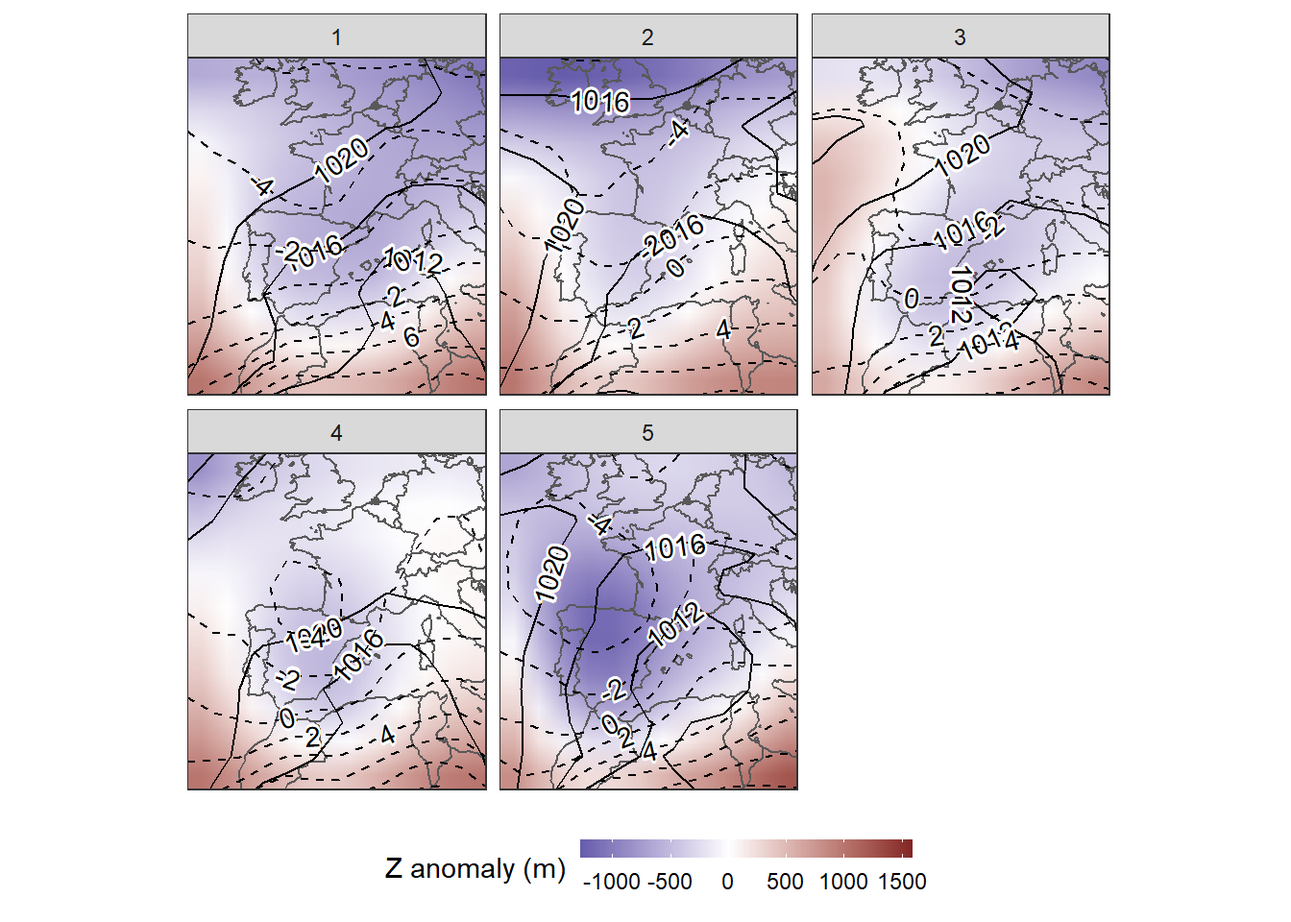
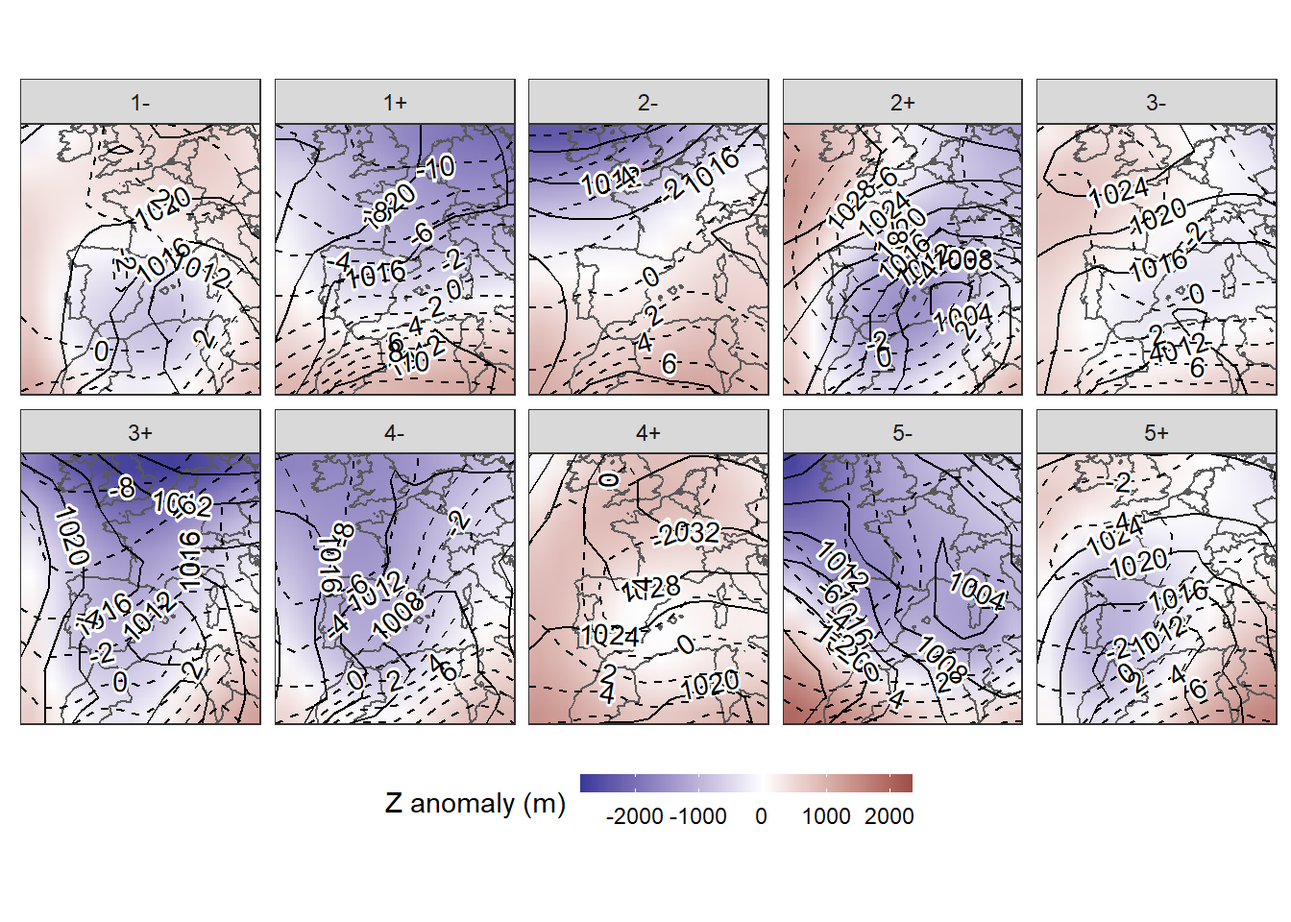
update

diff --git a/synoptreg/articles/environment-to-circulation.html b/synoptreg/articles/environment-to-circulation.html
@@ -31,7 +31,7 @@
       </button>
       <span class="navbar-brand">
         <a class="navbar-link" href="../index.html">synoptReg</a>
-        <span class="version label label-default" data-toggle="tooltip" data-placement="bottom" title="Released version">1.0.1</span>
+        <span class="version label label-default" data-toggle="tooltip" data-placement="bottom" title="Released version">1.0.2</span>
       </span>
     </div>
 
@@ -84,7 +84,7 @@
       <h1>Environment-To-Circulation</h1>
                         <h4 class="author">Marc Lemus-Canovas</h4>
             
-            <h4 class="date">2020-08-24</h4>
+            <h4 class="date">2020-08-25</h4>
       
       
       <div class="hidden name"><code>environment-to-circulation.Rmd</code></div>
@@ -253,7 +253,7 @@
 <a class="sourceLine" id="cb5-63" title="63"><span class="co">#&gt;  9 slp     5      55 2000-09-04 1+          101913.             277.</span></a>
 <a class="sourceLine" id="cb5-64" title="64"><span class="co">#&gt; 10 slp     7.5    55 2000-09-04 1+          101781.             145.</span></a>
 <a class="sourceLine" id="cb5-65" title="65"><span class="co">#&gt; # ... with 4,280 more rows, and 1 more variable: cv_WT_value &lt;dbl&gt;</span></a></code></pre></div>
-<p>The object returned by <code>synoptclas</code> differs relatively from the object returned when we apply a classification in <code>"S-mode"</code>. This time, the output is a list with 4 objects: 2 objects are <code>tibbles</code> with the variables <code>time</code> and <code>WT</code>. The difference between the two objects lies in the grouping method applied to get the WTs. In <code>clas_abs</code> the association is done with the absolute values of the loadings; in <code>clas_pn</code> the extreme positive and negative values are used to get the final groups. The two remaining objects are the grids classified with each of these two methods. This time we will work with the method that classifies the WTs using the absolute loadings (correlation coefficients).</p>
+<p>The object returned by <code>synoptclas</code> differs relatively from the object returned when we apply a classification in <code>"S-mode"</code>. This time, the output is a list with 4 objects: 2 objects are <code>tibbles</code> with the variables <code>time</code> and <code>WT</code>. The difference between the two objects lies in the grouping method applied to achieve the WTs. In <code>clas_abs</code> the association is done with the absolute values of the loadings; in <code>clas_pn</code> the extreme positive and negative values are used to get the final groups. The two remaining objects are the grids classified with each of these two methods. This time we will work with the method that classifies the WTs using the positive/negative loadings (correlation coefficients).</p>
 <p>Let’s see the result:</p>
 <div class="sourceCode" id="cb6"><pre class="sourceCode r"><code class="sourceCode r"><a class="sourceLine" id="cb6-1" title="1"><span class="kw"><a href="https://rdrr.io/r/base/library.html">library</a></span>(ggplot2) </a>
 <a class="sourceLine" id="cb6-2" title="2"><span class="kw"><a href="https://rdrr.io/r/base/library.html">library</a></span>(dplyr)</a>
@@ -264,24 +264,24 @@
 <a class="sourceLine" id="cb6-7" title="7">                                       <span class="dt">returnclass =</span> <span class="st">"sf"</span>,<span class="dt">scale =</span> <span class="dv">50</span>)</a>
 <a class="sourceLine" id="cb6-8" title="8"></a>
 <a class="sourceLine" id="cb6-9" title="9"><span class="kw">ggplot</span>()<span class="op">+</span></a>
-<a class="sourceLine" id="cb6-10" title="10"><span class="st">    </span><span class="kw">geom_raster</span>(<span class="kw"><a href="https://rdrr.io/r/stats/filter.html">filter</a></span>(cl<span class="op">$</span>grid_clas_abs, var <span class="op">==</span><span class="st"> "z500"</span>), </a>
+<a class="sourceLine" id="cb6-10" title="10"><span class="st">    </span><span class="kw">geom_raster</span>(<span class="kw"><a href="https://rdrr.io/r/stats/filter.html">filter</a></span>(cl<span class="op">$</span>grid_clas_pn, var <span class="op">==</span><span class="st"> "z500"</span>), </a>
 <a class="sourceLine" id="cb6-11" title="11">              <span class="dt">mapping =</span> <span class="kw">aes</span>(lon,lat,<span class="dt">fill =</span> mean_WT_anom_value),</a>
 <a class="sourceLine" id="cb6-12" title="12">              <span class="dt">interpolate =</span> T,<span class="dt">hjust =</span> <span class="dv">0</span>,<span class="dt">vjust =</span> <span class="dv">0</span>)<span class="op">+</span></a>
 <a class="sourceLine" id="cb6-13" title="13"><span class="st">    </span><span class="kw">geom_sf</span>(<span class="dt">data =</span> borders, <span class="dt">fill =</span> <span class="st">"transparent"</span>)<span class="op">+</span></a>
-<a class="sourceLine" id="cb6-14" title="14"><span class="st">  </span><span class="kw">geom_contour2</span>(<span class="dt">data =</span> <span class="kw"><a href="https://rdrr.io/r/stats/filter.html">filter</a></span>(cl<span class="op">$</span>grid_clas_abs,var <span class="op">==</span><span class="st"> "slp"</span>),</a>
+<a class="sourceLine" id="cb6-14" title="14"><span class="st">  </span><span class="kw">geom_contour2</span>(<span class="dt">data =</span> <span class="kw"><a href="https://rdrr.io/r/stats/filter.html">filter</a></span>(cl<span class="op">$</span>grid_clas_pn,var <span class="op">==</span><span class="st"> "slp"</span>),</a>
 <a class="sourceLine" id="cb6-15" title="15">                <span class="kw">aes</span>(<span class="dt">x=</span>lon,<span class="dt">y=</span>lat,<span class="dt">z=</span>mean_WT_value<span class="op">/</span><span class="dv">100</span>), </a>
 <a class="sourceLine" id="cb6-16" title="16">                <span class="dt">binwidth =</span> <span class="dv">4</span>, <span class="dt">color =</span> <span class="st">"black"</span>) <span class="op">+</span></a>
-<a class="sourceLine" id="cb6-17" title="17"><span class="st">  </span><span class="kw">geom_text_contour</span>(<span class="dt">data=</span> <span class="kw"><a href="https://rdrr.io/r/stats/filter.html">filter</a></span>(cl<span class="op">$</span>grid_clas_abs, var <span class="op">==</span><span class="st"> "slp"</span>),</a>
+<a class="sourceLine" id="cb6-17" title="17"><span class="st">  </span><span class="kw">geom_text_contour</span>(<span class="dt">data=</span> <span class="kw"><a href="https://rdrr.io/r/stats/filter.html">filter</a></span>(cl<span class="op">$</span>grid_clas_pn, var <span class="op">==</span><span class="st"> "slp"</span>),</a>
 <a class="sourceLine" id="cb6-18" title="18">                    <span class="kw">aes</span>(<span class="dt">x=</span>lon,<span class="dt">y=</span>lat,<span class="dt">z=</span>mean_WT_value<span class="op">/</span><span class="dv">100</span>), </a>
 <a class="sourceLine" id="cb6-19" title="19">                    <span class="dt">stroke =</span> <span class="fl">0.15</span>,<span class="dt">binwidth =</span> <span class="dv">4</span>) <span class="op">+</span></a>
-<a class="sourceLine" id="cb6-20" title="20"><span class="st">  </span><span class="kw">geom_contour2</span>(<span class="dt">data =</span> <span class="kw"><a href="https://rdrr.io/r/stats/filter.html">filter</a></span>(cl<span class="op">$</span>grid_clas_abs,var <span class="op">==</span><span class="st"> "t850"</span>), </a>
+<a class="sourceLine" id="cb6-20" title="20"><span class="st">  </span><span class="kw">geom_contour2</span>(<span class="dt">data =</span> <span class="kw"><a href="https://rdrr.io/r/stats/filter.html">filter</a></span>(cl<span class="op">$</span>grid_clas_pn,var <span class="op">==</span><span class="st"> "t850"</span>), </a>
 <a class="sourceLine" id="cb6-21" title="21">                <span class="kw">aes</span>(<span class="dt">x=</span>lon,<span class="dt">y=</span>lat,<span class="dt">z=</span>mean_WT_anom_value), </a>
 <a class="sourceLine" id="cb6-22" title="22">                <span class="dt">binwidth =</span> <span class="dv">2</span>, <span class="dt">color =</span> <span class="st">"black"</span>, <span class="dt">linetype =</span> <span class="st">"dashed"</span>) <span class="op">+</span></a>
-<a class="sourceLine" id="cb6-23" title="23"><span class="st">  </span><span class="kw">geom_text_contour</span>(<span class="dt">data=</span> <span class="kw"><a href="https://rdrr.io/r/stats/filter.html">filter</a></span>(cl<span class="op">$</span>grid_clas_abs, var <span class="op">==</span><span class="st"> "t850"</span>),</a>
+<a class="sourceLine" id="cb6-23" title="23"><span class="st">  </span><span class="kw">geom_text_contour</span>(<span class="dt">data=</span> <span class="kw"><a href="https://rdrr.io/r/stats/filter.html">filter</a></span>(cl<span class="op">$</span>grid_clas_pn, var <span class="op">==</span><span class="st"> "t850"</span>),</a>
 <a class="sourceLine" id="cb6-24" title="24">                    <span class="kw">aes</span>(<span class="dt">x=</span>lon,<span class="dt">y=</span>lat,<span class="dt">z=</span>mean_WT_anom_value), </a>
 <a class="sourceLine" id="cb6-25" title="25">                    <span class="dt">stroke =</span> <span class="fl">0.15</span>,<span class="dt">binwidth =</span> <span class="dv">2</span>) <span class="op">+</span></a>
 <a class="sourceLine" id="cb6-26" title="26"><span class="st">    </span><span class="kw">guides</span>(<span class="dt">fill =</span> <span class="kw">guide_colourbar</span>(<span class="dt">barwidth =</span> <span class="dv">9</span>, <span class="dt">barheight =</span> <span class="fl">0.5</span>))<span class="op">+</span></a>
-<a class="sourceLine" id="cb6-27" title="27"><span class="st">    </span><span class="kw">facet_wrap</span>(<span class="op">~</span>WT, <span class="dt">ncol =</span> <span class="dv">3</span>) <span class="op">+</span></a>
+<a class="sourceLine" id="cb6-27" title="27"><span class="st">    </span><span class="kw">facet_wrap</span>(<span class="op">~</span>WT, <span class="dt">ncol =</span> <span class="dv">5</span>) <span class="op">+</span></a>
 <a class="sourceLine" id="cb6-28" title="28"><span class="st">    </span><span class="kw">scale_fill_divergent</span>(<span class="dt">name =</span> <span class="st">"Z anomaly (m)"</span>) <span class="op">+</span></a>
 <a class="sourceLine" id="cb6-29" title="29"><span class="st">    </span><span class="kw">scale_x_continuous</span>(<span class="dt">limits =</span> <span class="kw"><a href="https://rdrr.io/r/base/c.html">c</a></span>(<span class="op">-</span><span class="dv">15</span>,<span class="dv">15</span>), <span class="dt">expand =</span> <span class="kw"><a href="https://rdrr.io/r/base/c.html">c</a></span>(<span class="dv">0</span>,<span class="dv">0</span>))<span class="op">+</span></a>
 <a class="sourceLine" id="cb6-30" title="30"><span class="st">    </span><span class="kw">scale_y_continuous</span>(<span class="dt">limits =</span> <span class="kw"><a href="https://rdrr.io/r/base/c.html">c</a></span>(<span class="dv">30</span>,<span class="dv">55</span>), <span class="dt">expand =</span> <span class="kw"><a href="https://rdrr.io/r/base/c.html">c</a></span>(<span class="dv">0</span>,<span class="dv">0</span>))<span class="op">+</span></a>
@@ -289,7 +289,7 @@
 <a class="sourceLine" id="cb6-32" title="32">                       <span class="dt">axis.text =</span> <span class="kw">element_blank</span>(),</a>
 <a class="sourceLine" id="cb6-33" title="33">                       <span class="dt">axis.ticks =</span> <span class="kw">element_blank</span>(),</a>
 <a class="sourceLine" id="cb6-34" title="34">                       <span class="dt">legend.position =</span> <span class="st">"bottom"</span>)</a>
-<a class="sourceLine" id="cb6-35" title="35"><span class="co">#&gt; Warning: Removed 115 rows containing missing values (geom_raster).</span></a></code></pre></div>
+<a class="sourceLine" id="cb6-35" title="35"><span class="co">#&gt; Warning: Removed 230 rows containing missing values (geom_raster).</span></a></code></pre></div>
 <p><img src="environment-to-circulation_files/figure-html/unnamed-chunk-6-1.png" width="672"></p>
 </div>
 </div>
@@ -297,14 +297,14 @@
 <h1 class="hasAnchor">
 <a href="#analysing-the-spatial-contribution-of-each-wt-to-torrential-rainfall-in-the-balearic-islands" class="anchor"></a>Analysing the spatial contribution of each WT to torrential rainfall in the Balearic Islands</h1>
 <p>We can then calculate the maximum precipitation associated with these CT/WT. To do this we will use the function <code><a href="../reference/ct2env.html">ct2env()</a></code> indicating in the argument <code>fun</code> the function <code>max</code>:</p>
-<div class="sourceCode" id="cb7"><pre class="sourceCode r"><code class="sourceCode r"><a class="sourceLine" id="cb7-1" title="1">max_torrential_pcp &lt;-<span class="st"> </span><span class="kw"><a href="../reference/ct2env.html">ct2env</a></span>(pcp,<span class="dt">clas =</span> cl<span class="op">$</span>clas_abs,<span class="dt">fun =</span> max,<span class="dt">out =</span> <span class="st">"data.frame"</span>)</a>
+<div class="sourceCode" id="cb7"><pre class="sourceCode r"><code class="sourceCode r"><a class="sourceLine" id="cb7-1" title="1">max_torrential_pcp &lt;-<span class="st"> </span><span class="kw"><a href="../reference/ct2env.html">ct2env</a></span>(pcp,<span class="dt">clas =</span> cl<span class="op">$</span>clas_pn,<span class="dt">fun =</span> max,<span class="dt">out =</span> <span class="st">"data.frame"</span>)</a>
 <a class="sourceLine" id="cb7-2" title="2"></a>
 <a class="sourceLine" id="cb7-3" title="3"><span class="kw">ggplot</span>() <span class="op">+</span><span class="st"> </span></a>
 <a class="sourceLine" id="cb7-4" title="4"><span class="st">  </span><span class="kw">geom_tile</span>(<span class="dt">data=</span>max_torrential_pcp, <span class="kw">aes</span>(<span class="dt">x=</span>lon, <span class="dt">y=</span>lat,<span class="dt">fill=</span>calc<span class="op">/</span><span class="dv">10</span>)) <span class="op">+</span><span class="st"> </span></a>
 <a class="sourceLine" id="cb7-5" title="5"><span class="st">  </span><span class="kw">scale_fill_gradientn</span>(<span class="dt">colours =</span> <span class="kw"><a href="https://rdrr.io/r/base/rev.html">rev</a></span>(pals<span class="op">::</span><span class="kw"><a href="https://rdrr.io/pkg/pals/man/niccoli.html">linearl</a></span>(<span class="dv">100</span>)), </a>
 <a class="sourceLine" id="cb7-6" title="6">  <span class="dt">name =</span> <span class="st">"rainfall (mm/day)"</span>,<span class="dt">na.value=</span><span class="st">"transparent"</span>) <span class="op">+</span><span class="st"> </span></a>
 <a class="sourceLine" id="cb7-7" title="7"><span class="st">  </span><span class="kw">coord_equal</span>()<span class="op">+</span></a>
-<a class="sourceLine" id="cb7-8" title="8"><span class="st">  </span><span class="kw">scale_colour_gradient</span>(<span class="dt">guide =</span> <span class="st">'none'</span>) <span class="op">+</span><span class="st"> </span><span class="kw">facet_wrap</span>(<span class="op">~</span>WT, <span class="dt">ncol =</span> <span class="dv">3</span>) <span class="op">+</span></a>
+<a class="sourceLine" id="cb7-8" title="8"><span class="st">  </span><span class="kw">scale_colour_gradient</span>(<span class="dt">guide =</span> <span class="st">'none'</span>) <span class="op">+</span><span class="st"> </span><span class="kw">facet_wrap</span>(<span class="op">~</span>WT, <span class="dt">ncol =</span> <span class="dv">5</span>) <span class="op">+</span></a>
 <a class="sourceLine" id="cb7-9" title="9"><span class="st">  </span><span class="kw">guides</span>(<span class="dt">fill =</span> <span class="kw">guide_colourbar</span>(<span class="dt">barwidth =</span> <span class="dv">9</span>, <span class="dt">barheight =</span> <span class="fl">0.5</span>))<span class="op">+</span></a>
 <a class="sourceLine" id="cb7-10" title="10"><span class="st">  </span><span class="kw">theme_bw</span>() <span class="op">+</span><span class="st"> </span><span class="kw">theme</span>(<span class="dt">axis.title =</span> <span class="kw">element_blank</span>(), </a>
 <a class="sourceLine" id="cb7-11" title="11">                     <span class="dt">axis.text =</span> <span class="kw">element_blank</span>(),</a>
@@ -313,7 +313,7 @@
 <p><img src="environment-to-circulation_files/figure-html/unnamed-chunk-7-1.png" width="672"></p>
 <p>In addition, we can assess the spatial variability of this torrential events by creating the function of the coefficient of variation (cv) in the <code>fun</code> argument:</p>
 <div class="sourceCode" id="cb8"><pre class="sourceCode r"><code class="sourceCode r"><a class="sourceLine" id="cb8-1" title="1">cv_torrential_pcp &lt;-<span class="st"> </span><span class="kw"><a href="../reference/ct2env.html">ct2env</a></span>(pcp,</a>
-<a class="sourceLine" id="cb8-2" title="2">                            <span class="dt">clas =</span> cl<span class="op">$</span>clas_abs,</a>
+<a class="sourceLine" id="cb8-2" title="2">                            <span class="dt">clas =</span> cl<span class="op">$</span>clas_pn,</a>
 <a class="sourceLine" id="cb8-3" title="3">                            <span class="dt">fun =</span> <span class="cf">function</span>(x){<span class="kw"><a href="https://rdrr.io/r/stats/sd.html">sd</a></span>(x)<span class="op">/</span><span class="kw"><a href="https://rdrr.io/r/base/mean.html">mean</a></span>(x)<span class="op">*</span><span class="dv">100</span>},</a>
 <a class="sourceLine" id="cb8-4" title="4">                            <span class="dt">out =</span> <span class="st">"data.frame"</span>)</a>
 <a class="sourceLine" id="cb8-5" title="5"></a>
@@ -322,7 +322,7 @@
 <a class="sourceLine" id="cb8-8" title="8"><span class="st">  </span><span class="kw">scale_fill_gradientn</span>(<span class="dt">colours =</span> pals<span class="op">::</span><span class="kw"><a href="https://rdrr.io/pkg/pals/man/continuous.html">jet</a></span>(<span class="dv">100</span>), </a>
 <a class="sourceLine" id="cb8-9" title="9">  <span class="dt">name =</span> <span class="st">"coeff. var (%)"</span>,<span class="dt">na.value=</span><span class="st">"transparent"</span>) <span class="op">+</span><span class="st"> </span></a>
 <a class="sourceLine" id="cb8-10" title="10"><span class="st">  </span><span class="kw">coord_equal</span>()<span class="op">+</span></a>
-<a class="sourceLine" id="cb8-11" title="11"><span class="st">  </span><span class="kw">scale_colour_gradient</span>(<span class="dt">guide =</span> <span class="st">'none'</span>) <span class="op">+</span><span class="st"> </span><span class="kw">facet_wrap</span>(<span class="op">~</span>WT, <span class="dt">ncol =</span> <span class="dv">3</span>) <span class="op">+</span></a>
+<a class="sourceLine" id="cb8-11" title="11"><span class="st">  </span><span class="kw">scale_colour_gradient</span>(<span class="dt">guide =</span> <span class="st">'none'</span>) <span class="op">+</span><span class="st"> </span><span class="kw">facet_wrap</span>(<span class="op">~</span>WT, <span class="dt">ncol =</span> <span class="dv">5</span>) <span class="op">+</span></a>
 <a class="sourceLine" id="cb8-12" title="12"><span class="st">  </span><span class="kw">guides</span>(<span class="dt">fill =</span> <span class="kw">guide_colourbar</span>(<span class="dt">barwidth =</span> <span class="dv">9</span>, <span class="dt">barheight =</span> <span class="fl">0.5</span>))<span class="op">+</span></a>
 <a class="sourceLine" id="cb8-13" title="13"><span class="st">  </span><span class="kw">theme_bw</span>() <span class="op">+</span><span class="st"> </span><span class="kw">theme</span>(<span class="dt">axis.title =</span> <span class="kw">element_blank</span>(), </a>
 <a class="sourceLine" id="cb8-14" title="14">                     <span class="dt">axis.text =</span> <span class="kw">element_blank</span>(),</a>

diff --git a/synoptreg/authors.html b/synoptreg/authors.html
@@ -67,7 +67,7 @@
       </button>
       <span class="navbar-brand">
         <a class="navbar-link" href="index.html">synoptReg</a>
-        <span class="version label label-default" data-toggle="tooltip" data-placement="bottom" title="Released version">1.0.1</span>
+        <span class="version label label-default" data-toggle="tooltip" data-placement="bottom" title="Released version">1.0.2</span>
       </span>
     </div>
 
@@ -126,7 +126,7 @@
     <p>Lemus-Canovas M, Lopez-Bustins JA, Martin-Vide J, RoyÃ© D (2019).
 &ldquo;synoptReg: An R package for computing a synoptic climate classification and a spatial regionalization of environmental data.&rdquo;
 <em>Environmental Modelling &amp; Software</em>, <b>118</b>, 114 - 119.
-ISSN 1364-8152, doi: <a href="https://doi.org/10.1016/j.envsoft.2019.04.006">10.1016/j.envsoft.2019.04.006</a>, <a href="http://www.sciencedirect.com/science/article/pii/S1364815219300064">http://www.sciencedirect.com/science/article/pii/S1364815219300064</a>. 
+ISSN 1364-8152, doi: <a href="https://doi.org/10.1016/j.envsoft.2019.04.006">10.1016/j.envsoft.2019.04.006</a>, <a href="https://www.sciencedirect.com/science/article/abs/pii/S1364815219300064">https://www.sciencedirect.com/science/article/abs/pii/S1364815219300064</a>. 
 </p>
     <pre>@Article{,
   title = {synoptReg: An R package for computing a synoptic climate classification and a spatial regionalization of environmental data},
@@ -136,7 +136,7 @@ ISSN 1364-8152, doi: <a href="https://doi.org/10.1016/j.envsoft.2019.04.006">10.
   year = {2019},
   issn = {1364-8152},
   doi = {10.1016/j.envsoft.2019.04.006},
-  url = {http://www.sciencedirect.com/science/article/pii/S1364815219300064},
+  url = {https://www.sciencedirect.com/science/article/abs/pii/S1364815219300064},
   author = {Marc Lemus-Canovas and Joan A. Lopez-Bustins and Javier Martin-Vide and Dominic Royé},
 }</pre>
 

diff --git a/synoptreg/articles/classification_metrics.html b/synoptreg/articles/classification_metrics.html
@@ -31,7 +31,7 @@
       </button>
       <span class="navbar-brand">
         <a class="navbar-link" href="../index.html">synoptReg</a>
-        <span class="version label label-default" data-toggle="tooltip" data-placement="bottom" title="Released version">1.0.1</span>
+        <span class="version label label-default" data-toggle="tooltip" data-placement="bottom" title="Released version">1.0.2</span>
       </span>
     </div>
 
@@ -84,7 +84,7 @@
       <h1>Extracting metrics from the synoptic classification</h1>
                         <h4 class="author">Marc Lemus-Canovas</h4>
             
-            <h4 class="date">2020-08-24</h4>
+            <h4 class="date">2020-08-25</h4>
       
       
       <div class="hidden name"><code>classification_metrics.Rmd</code></div>

diff --git a/synoptreg/articles/circulation-to-environment.html b/synoptreg/articles/circulation-to-environment.html
@@ -31,7 +31,7 @@
       </button>
       <span class="navbar-brand">
         <a class="navbar-link" href="../index.html">synoptReg</a>
-        <span class="version label label-default" data-toggle="tooltip" data-placement="bottom" title="Released version">1.0.1</span>
+        <span class="version label label-default" data-toggle="tooltip" data-placement="bottom" title="Released version">1.0.2</span>
       </span>
     </div>
 
@@ -84,7 +84,7 @@
       <h1>Circulation-To-Environment</h1>
                         <h4 class="author">Marc Lemus-Canovas</h4>
             
-            <h4 class="date">2020-08-24</h4>
+            <h4 class="date">2020-08-25</h4>
       
       
       <div class="hidden name"><code>circulation-to-environment.Rmd</code></div>

diff --git a/synoptreg/reference/pcp.html b/synoptreg/reference/pcp.html
@@ -71,7 +71,7 @@ This data corresponds to daily values of precipitation with a spatial resolution
       </button>
       <span class="navbar-brand">
         <a class="navbar-link" href="../index.html">synoptReg</a>
-        <span class="version label label-default" data-toggle="tooltip" data-placement="bottom" title="Released version">1.0.1</span>
+        <span class="version label label-default" data-toggle="tooltip" data-placement="bottom" title="Released version">1.0.2</span>
       </span>
     </div>
 

diff --git a/synoptreg/reference/tidy_nc.html b/synoptreg/reference/tidy_nc.html
@@ -72,7 +72,7 @@ It is mandatory to pass the tidy_nc even if you do not want to change the time p
       </button>
       <span class="navbar-brand">
         <a class="navbar-link" href="../index.html">synoptReg</a>
-        <span class="version label label-default" data-toggle="tooltip" data-placement="bottom" title="Released version">1.0.1</span>
+        <span class="version label label-default" data-toggle="tooltip" data-placement="bottom" title="Released version">1.0.2</span>
       </span>
     </div>
 

diff --git a/synoptreg/reference/z500.html b/synoptreg/reference/z500.html
@@ -71,7 +71,7 @@ This data corresponds to global daily values of 500 hPa geopotential height with
       </button>
       <span class="navbar-brand">
         <a class="navbar-link" href="../index.html">synoptReg</a>
-        <span class="version label label-default" data-toggle="tooltip" data-placement="bottom" title="Released version">1.0.1</span>
+        <span class="version label label-default" data-toggle="tooltip" data-placement="bottom" title="Released version">1.0.2</span>
       </span>
     </div>
 

diff --git a/synoptreg/articles/index.html b/synoptreg/articles/index.html
@@ -67,7 +67,7 @@
       </button>
       <span class="navbar-brand">
         <a class="navbar-link" href="../index.html">synoptReg</a>
-        <span class="version label label-default" data-toggle="tooltip" data-placement="bottom" title="Released version">1.0.1</span>
+        <span class="version label label-default" data-toggle="tooltip" data-placement="bottom" title="Released version">1.0.2</span>
       </span>
     </div>
 

diff --git a/synoptreg/news/index.html b/synoptreg/news/index.html
@@ -67,7 +67,7 @@
       </button>
       <span class="navbar-brand">
         <a class="navbar-link" href="../index.html">synoptReg</a>
-        <span class="version label label-default" data-toggle="tooltip" data-placement="bottom" title="Released version">1.0.1</span>
+        <span class="version label label-default" data-toggle="tooltip" data-placement="bottom" title="Released version">1.0.2</span>
       </span>
     </div>
 

diff --git a/synoptreg/reference/ct2env.html b/synoptreg/reference/ct2env.html
@@ -69,7 +69,7 @@
       </button>
       <span class="navbar-brand">
         <a class="navbar-link" href="../index.html">synoptReg</a>
-        <span class="version label label-default" data-toggle="tooltip" data-placement="bottom" title="Released version">1.0.1</span>
+        <span class="version label label-default" data-toggle="tooltip" data-placement="bottom" title="Released version">1.0.2</span>
       </span>
     </div>
 

diff --git a/synoptreg/reference/download_ncep.html b/synoptreg/reference/download_ncep.html
@@ -69,7 +69,7 @@
       </button>
       <span class="navbar-brand">
         <a class="navbar-link" href="../index.html">synoptReg</a>
-        <span class="version label label-default" data-toggle="tooltip" data-placement="bottom" title="Released version">1.0.1</span>
+        <span class="version label label-default" data-toggle="tooltip" data-placement="bottom" title="Released version">1.0.2</span>
       </span>
     </div>
 
